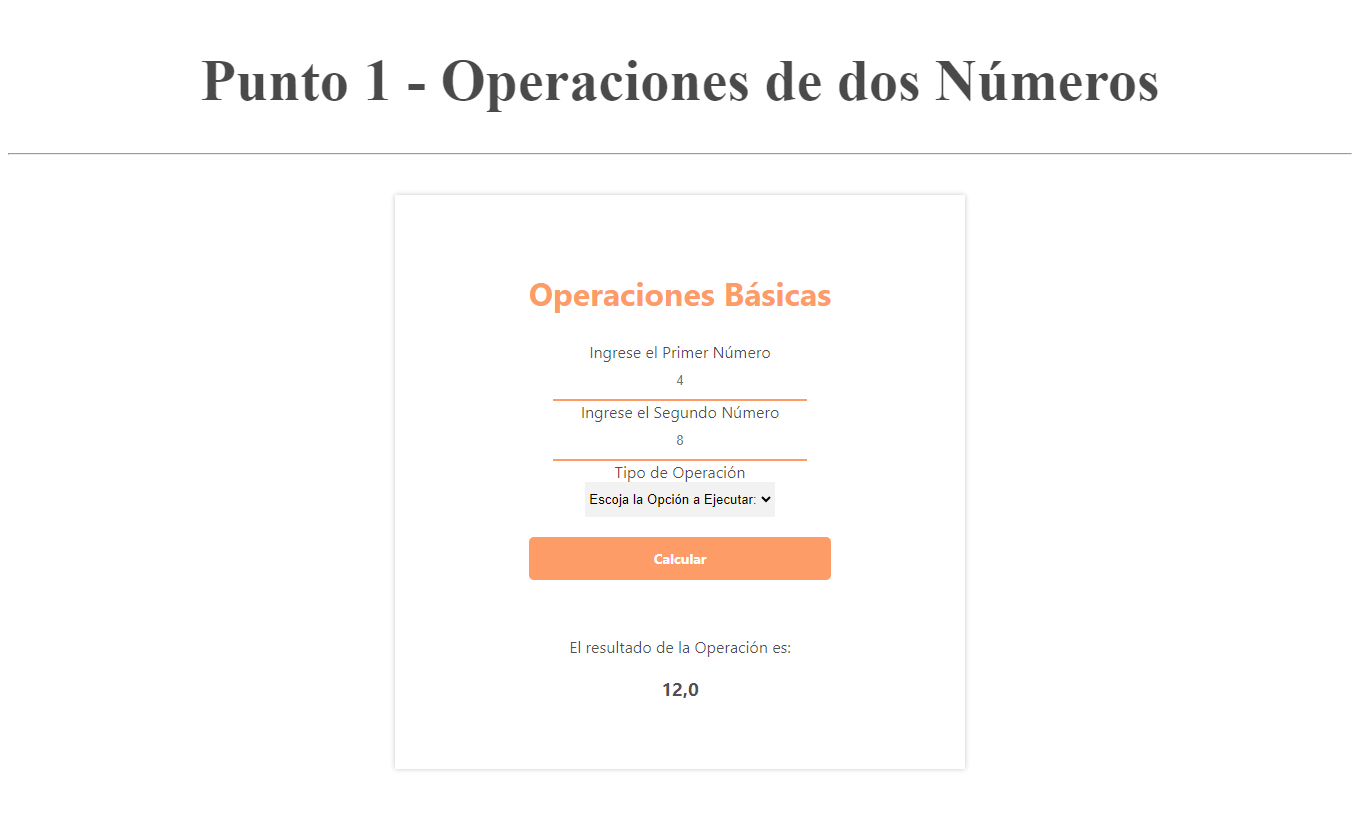
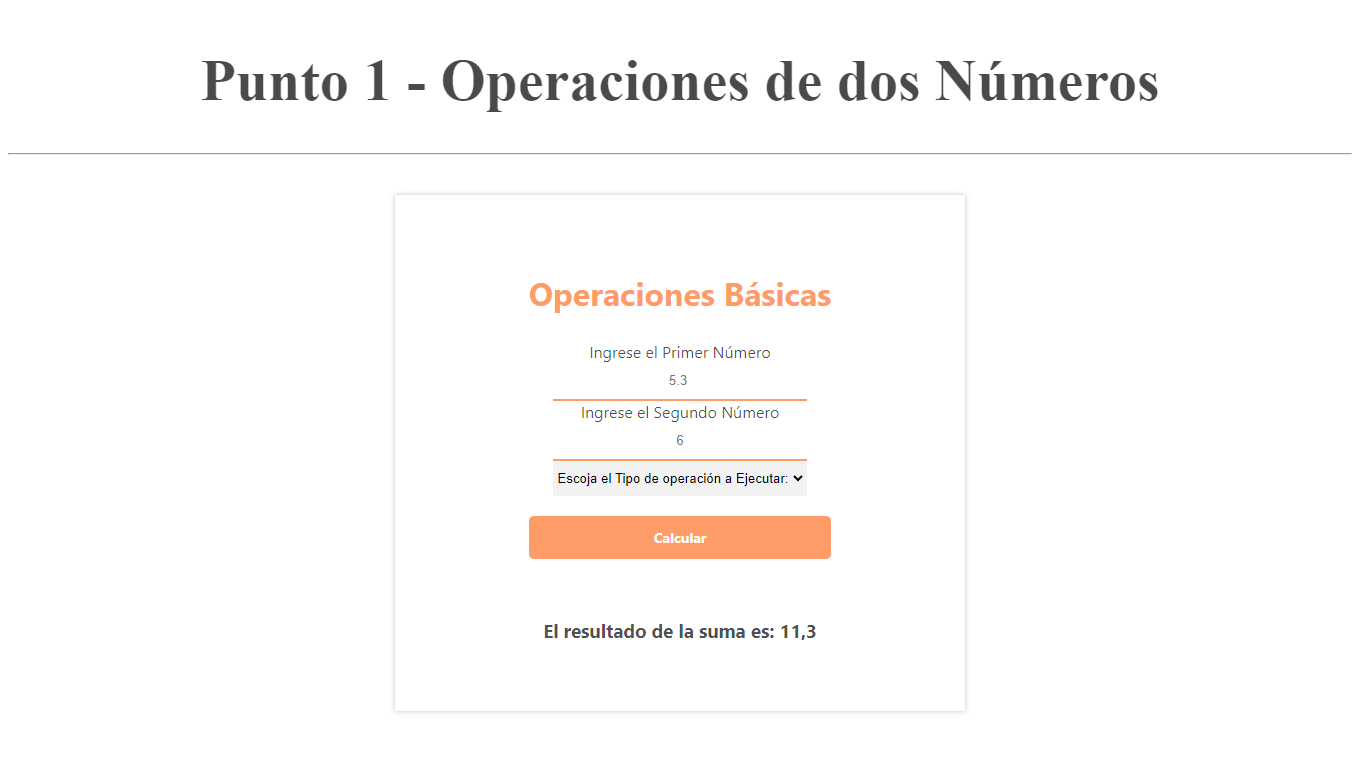
Agregación de imagenes

Changed region(s): [[0.3706, 0.3333, 0.6176, 0.7576], [0.1544, 0.0606, 0.8647, 0.1515], [0.4015, 0.7879, 0.6176, 0.8485]]

diff --git a/punto-1/view/components/form.php b/punto-1/view/components/form.php
@@ -11,7 +11,7 @@
                id="first-number" 
                type="text" 
                name="first_number" 
-               placeholder="4">
+               placeholder="5.3 ">
         </di>
 
         <div>
@@ -22,7 +22,7 @@
                id="second-number" 
                type="text" 
                name="second_number" 
-               placeholder="8">
+               placeholder="6">
         </di>
 
         <div>

diff --git a/punto-2/view/components/form.php b/punto-2/view/components/form.php
@@ -11,7 +11,7 @@
             id="full-name"
             type="text"
             name="full_name"
-            placeholder="Jhon Doe"
+            placeholder=" "
             >
         </di>
         <div>
@@ -22,7 +22,7 @@
             id="enter-age"
             type="text"
             name="enter_age"
-            placeholder="18"
+            placeholder=" "
             >
         </di>
     </di>  

diff --git a/punto-2/controller/calculationController.php b/punto-2/controller/calculationController.php
@@ -10,10 +10,10 @@ $message = "";
         $ageNumber = intval($_POST["enter_age"]);
 
         if ($ageNumber >= 18) {
-           $message = "ES MAYOR DE EDAD";
+           $message = "*ES MAYOR DE EDAD*";
 
         } else {
-           $message = "NO ES MAYOR DE EDAD";
+           $message = "*NO ES MAYOR DE EDAD*";
         }
       }
 ?>
